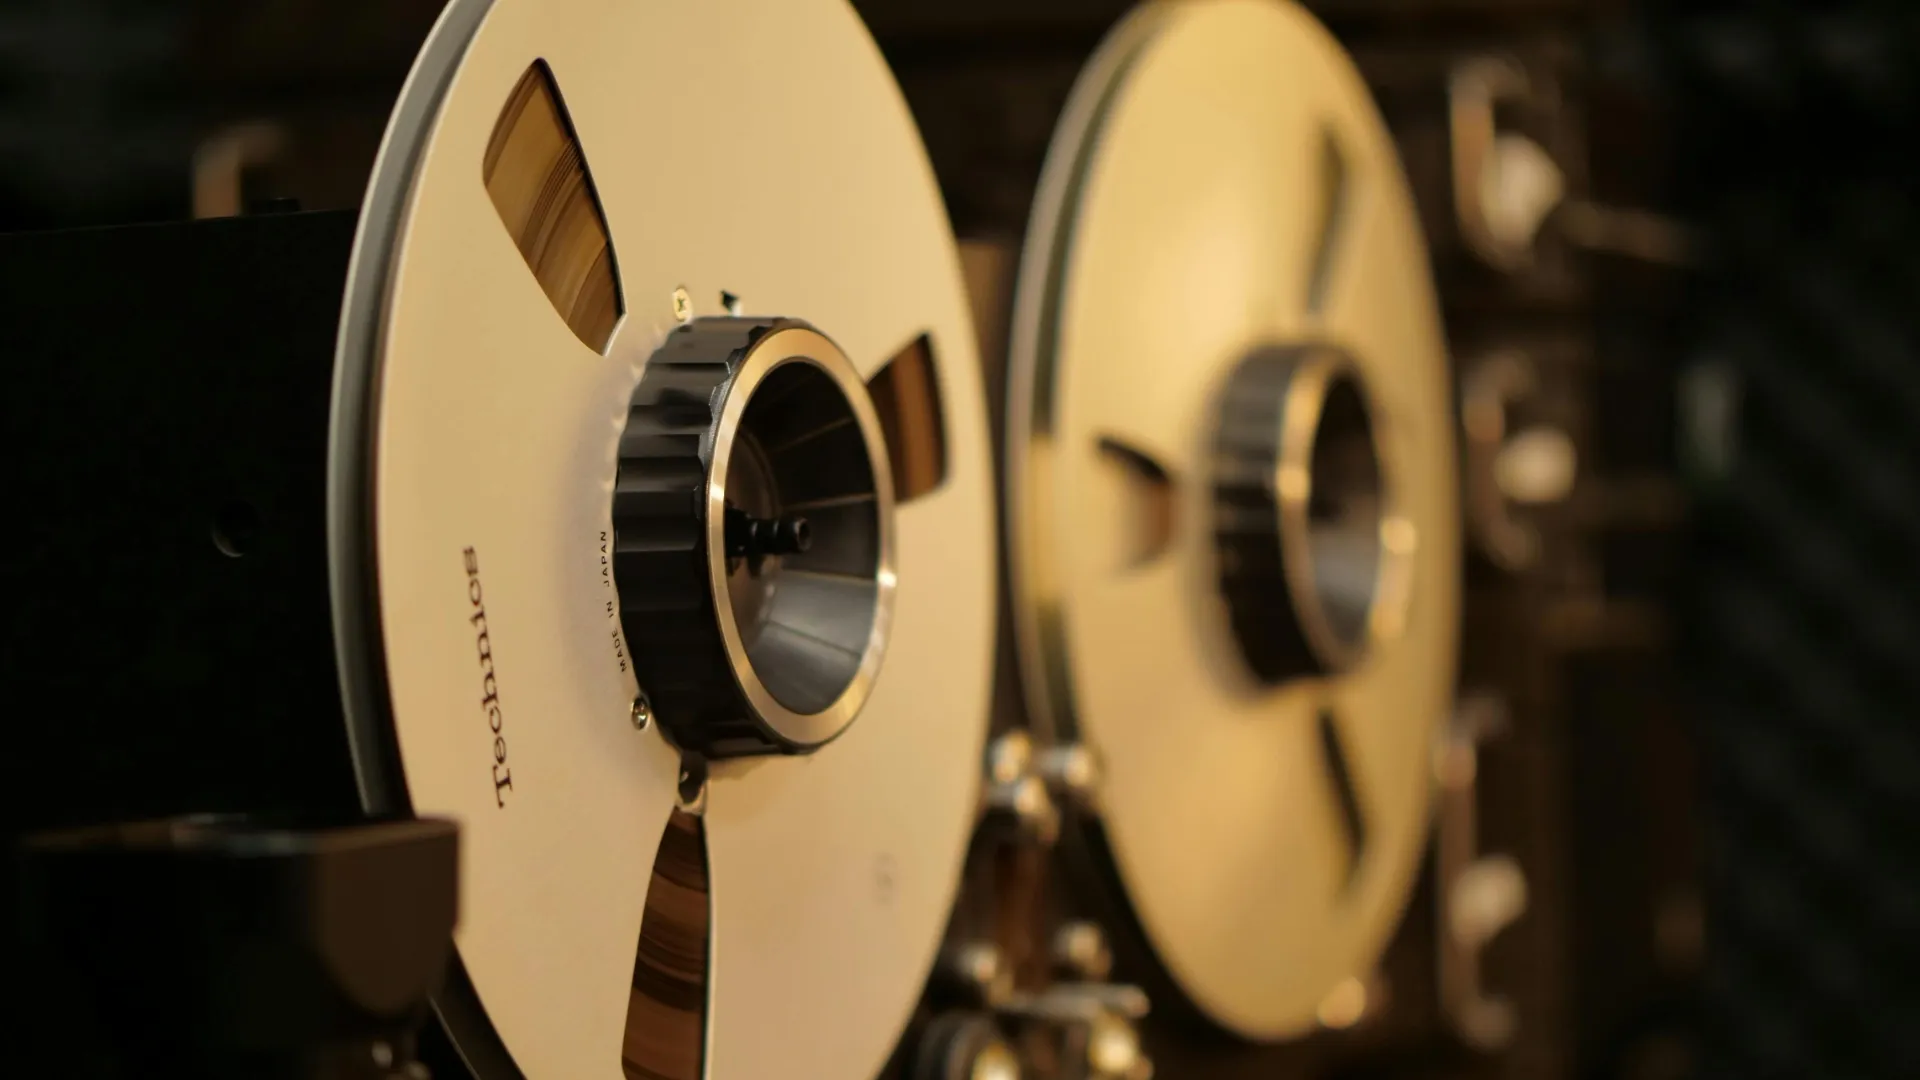
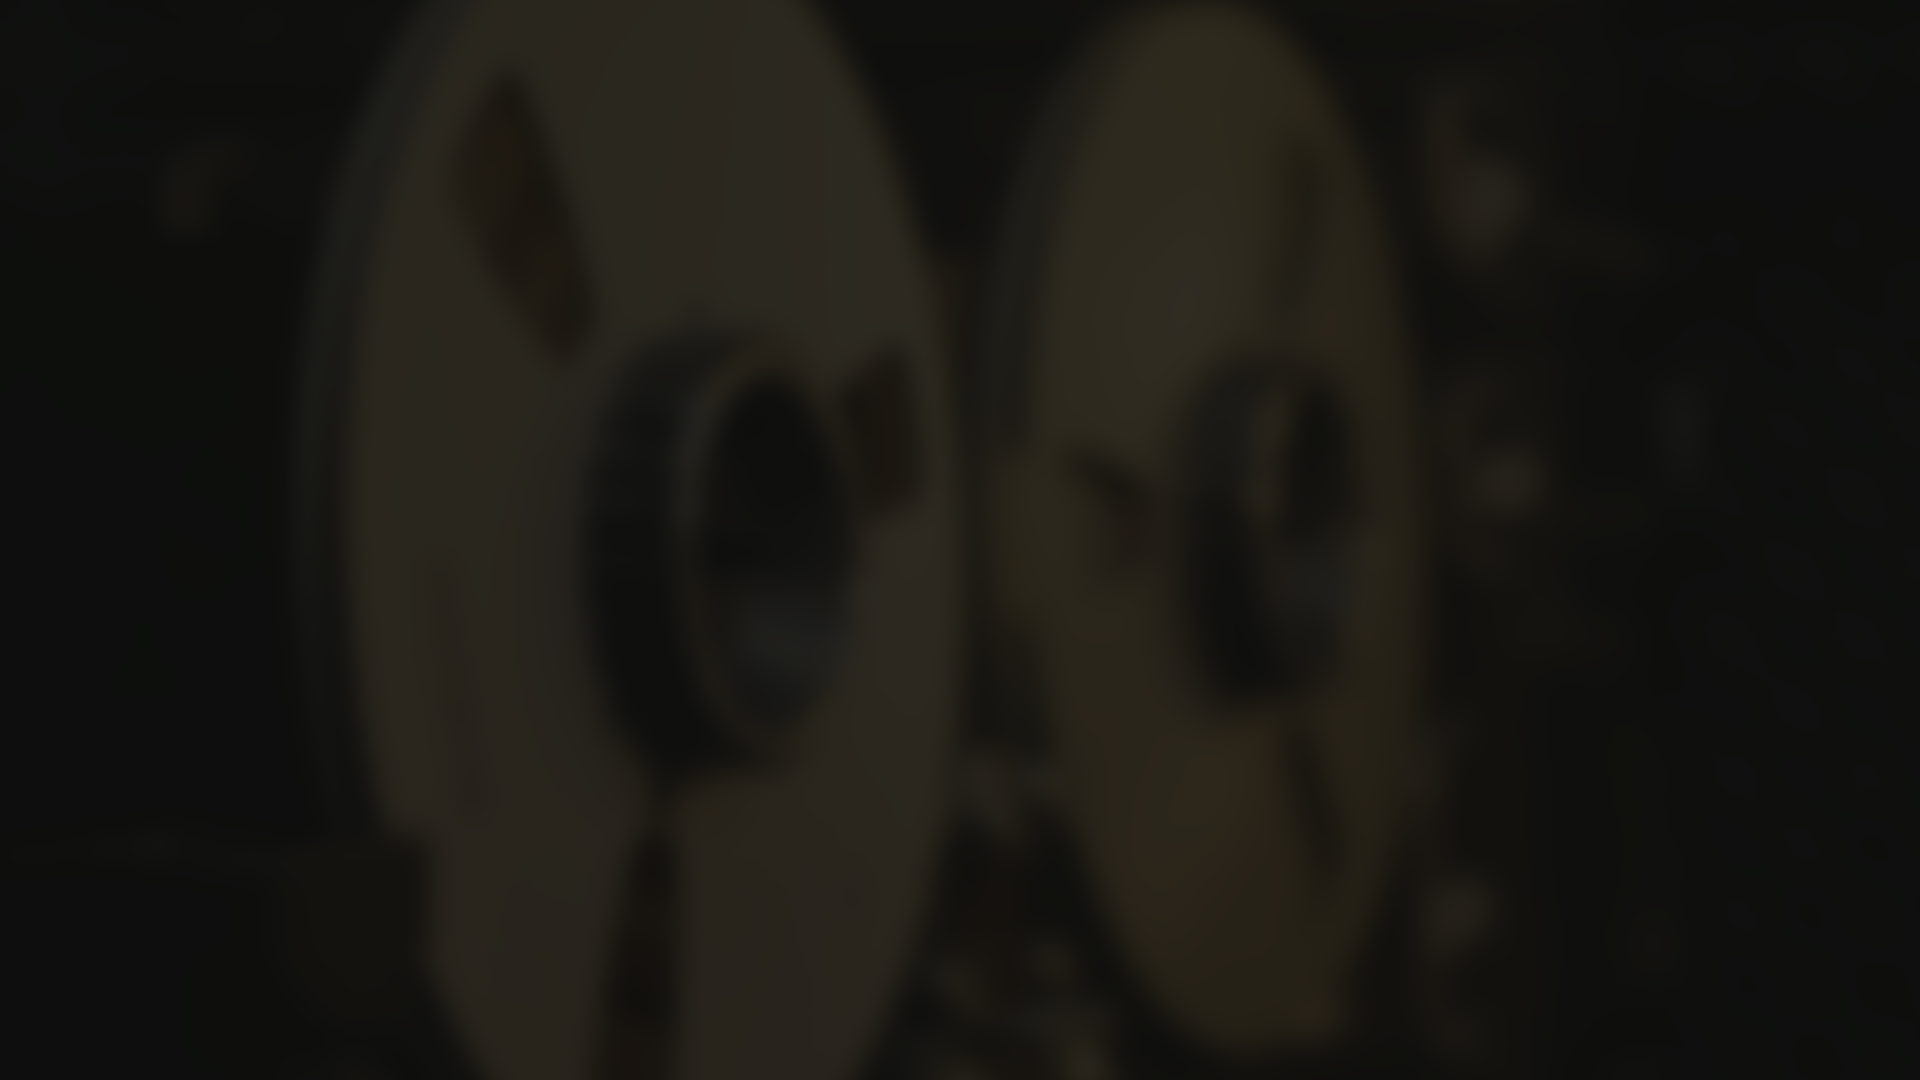
Try no css image processing

diff --git a/public/css/home.css b/public/css/home.css
@@ -4,11 +4,7 @@ body {
 
 .backdrop {
   flex: 1;
-  backdrop-filter: grayscale(50%) brightness(20%);
   /* backdrop-filter: grayscale(50%) blur(20px) brightness(20%); */
-  transform: translate3d(0, 0, 0);
-  -ms-transform: translate3d(0, 0, 0);
-
 }
 
 .logo {

diff --git a/public/js/index.js b/public/js/index.js
@@ -1,7 +1,7 @@
 import Player from './songPlayer.js'
 
 document.documentElement.addEventListener("click", (e) => {
-  console.log(e.target.dataset)
+  // console.log(e.target.dataset)
   switch (e.target.dataset.action) {
     case "toggle-mastering":
       Player.setMastering(
@@ -99,7 +99,7 @@ progressBar.addEventListener('pointerup', (e) => {
 window.addEventListener('keypress', (e) => {
   if (e.key === ' ') {
     if (!e.target.dataset?.action) {
-      // Don't fire on buttons
+      // Let buttons handle their own keypress
       Player.stop()
     }
   }